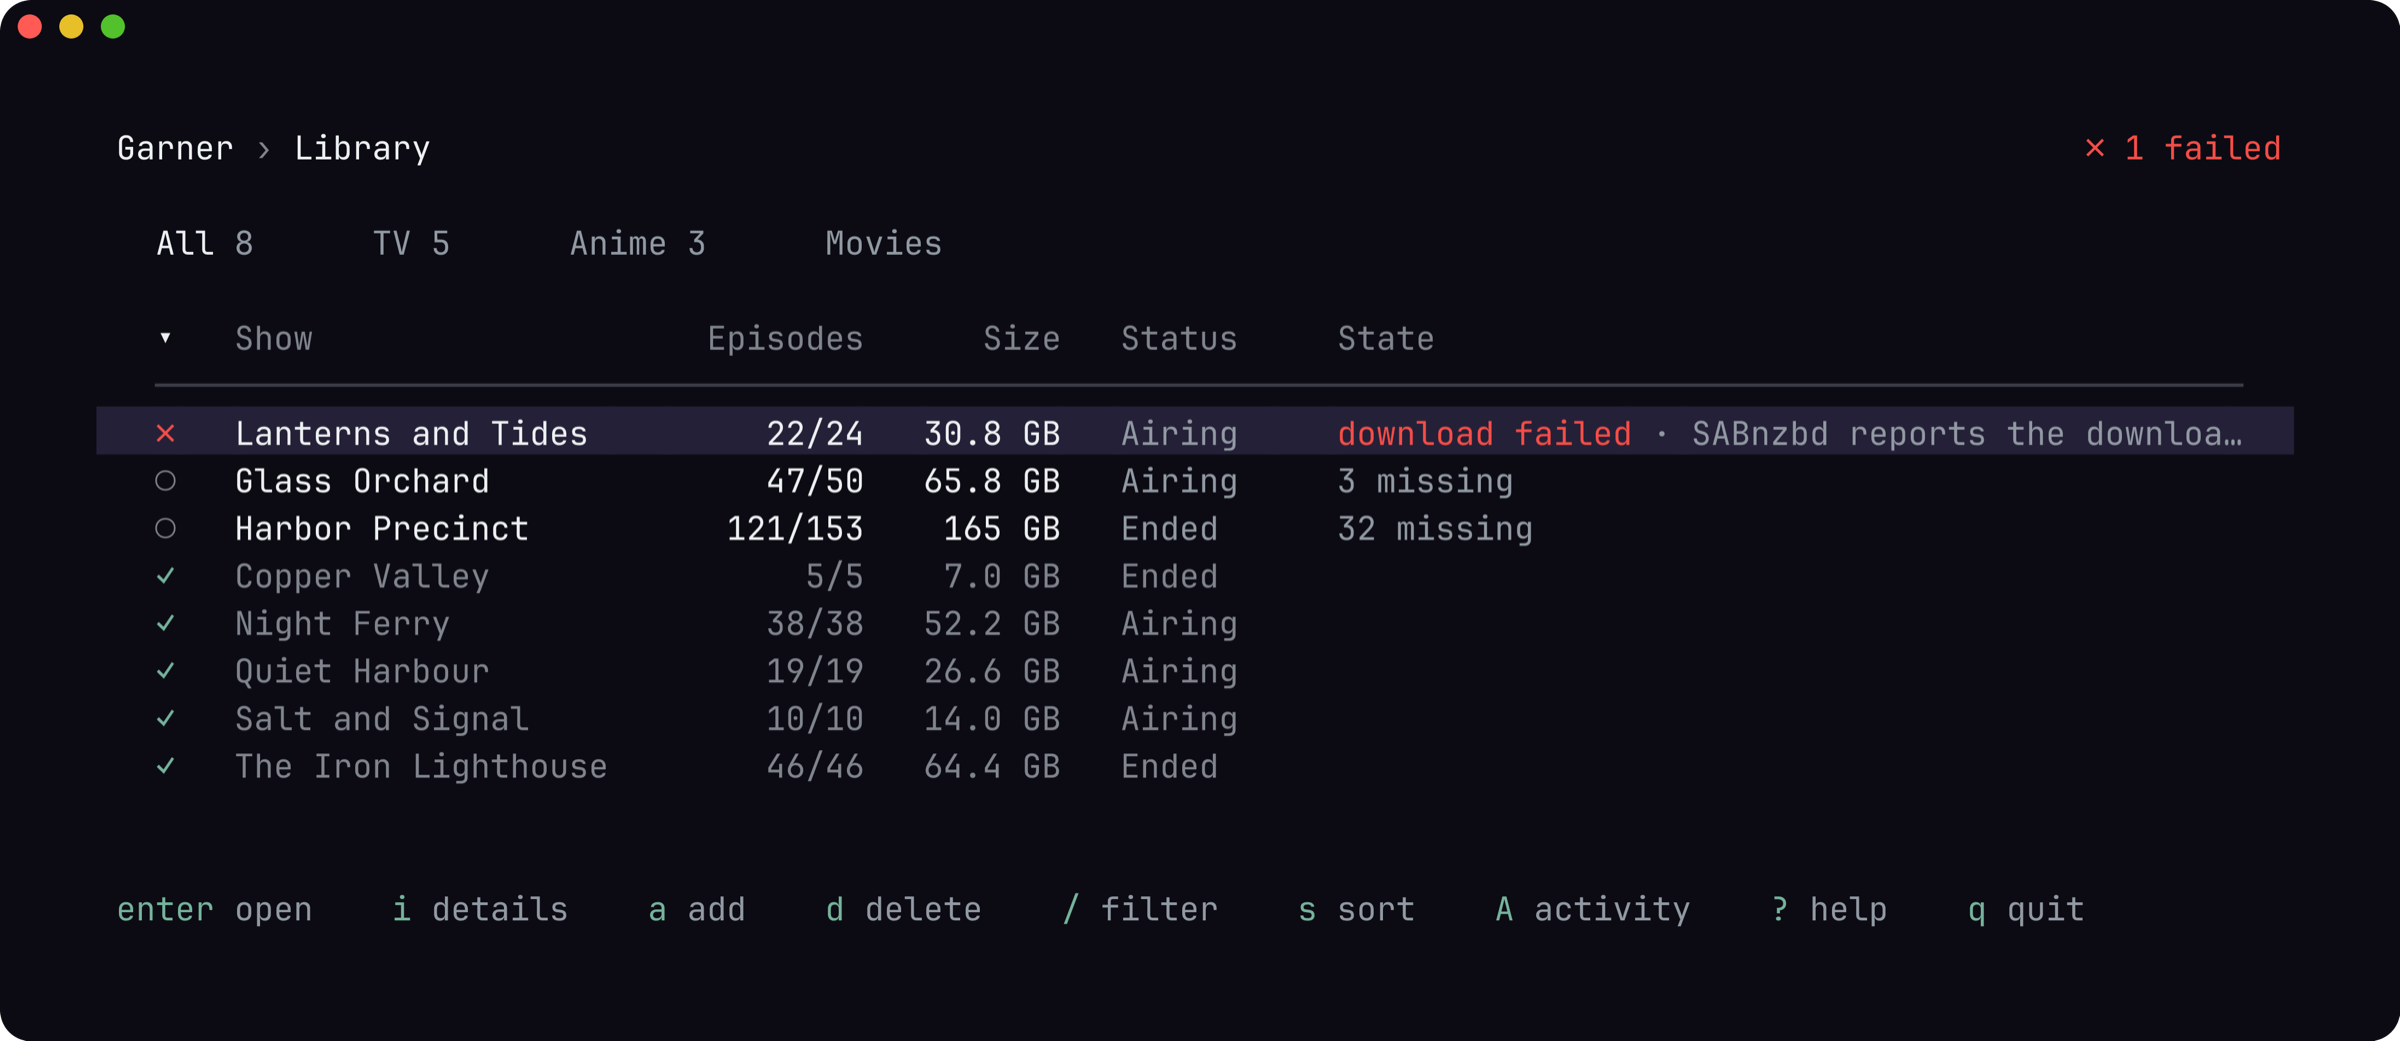
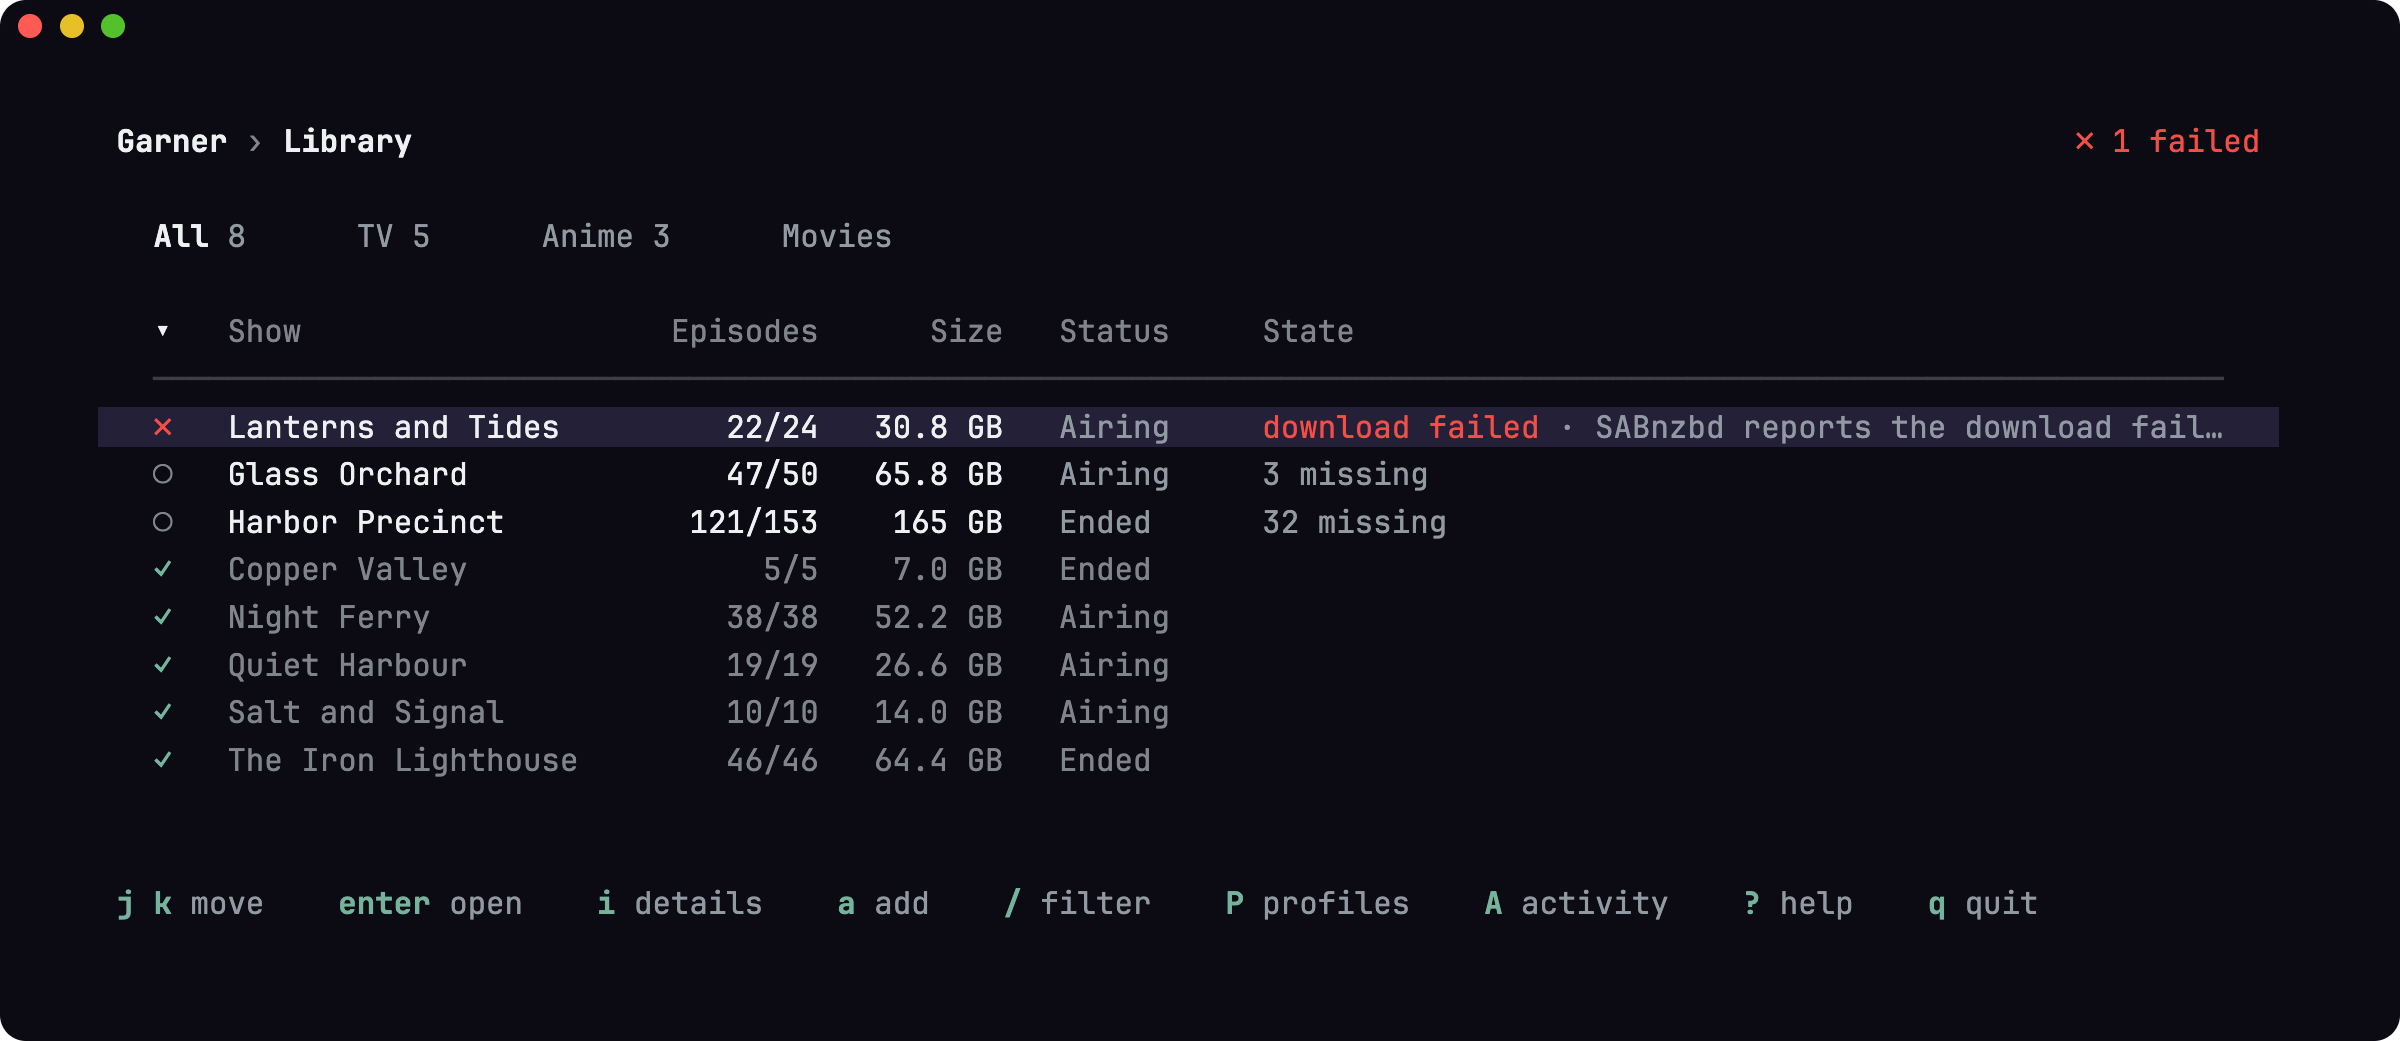
Bring the README's screenshot and requirements up to date
The screenshot showed an older library key bar, and What you need
listed Jellyfin as required, although Garner runs without it. The
screenshot now shows the current library screen, rendered from the
terminal interface with the same made-up shows, and the README says
what Jellyfin adds.

GRR-60

diff --git a/README.md b/README.md
@@ -1,12 +1,12 @@
 # Garner
 
-Garner manages TV shows and anime for a self-hosted media library. It finds releases through [Prowlarr](https://prowlarr.com), downloads them with [SABnzbd](https://sabnzbd.org), checks every file with FFprobe, moves it into the library and confirms the import through [Jellyfin](https://jellyfin.org). You run the server, `garnerd`, next to those services and use it from a terminal interface, `garner`, on any machine.
+Garner manages TV shows and anime for a self-hosted media library. It finds releases through [Prowlarr](https://prowlarr.com), downloads them with [SABnzbd](https://sabnzbd.org), checks every file with FFprobe, moves it into the library and, if you use [Jellyfin](https://jellyfin.org), confirms the import through it. You run the server, `garnerd`, next to those services and use it from a terminal interface, `garner`, on any machine.
 
 ![The library in Garner's terminal interface](docs/screenshot.png)
 
 - **Watches your shows.** The monitor searches for new episodes, or every missing one, and downloads the best release that fits the show's rules. When the show's profile wants upgrades, it replaces a file below the first preference, such as 720p, when a better release turns up.
 - **Explains every decision.** Every release in a search gets a verdict and the reasons for it: which episode it holds, which language and resolution it has and why it ranks where it does.
-- **Checks files before they reach the library.** FFprobe confirms the audio language, resolution and runtime of each file. Jellyfin then has to identify the file as the intended episode.
+- **Checks files before they reach the library.** FFprobe confirms the audio language, resolution and runtime of each file. If you use Jellyfin, it then has to identify the file as the intended episode.
 - **Handles anime numbering.** Scene numbering and absolute episode numbers come from [TheXEM](https://thexem.info), so releases of long-running anime match the right episodes.
 - **Takes over the files you already have.** When you add a show, Garner adopts its existing files instead of downloading them again.
 
@@ -15,7 +15,8 @@ Garner is young: versions start with `0.`, and a new version can change how thin
 ## What you need
 
 - A Linux server with Podman or Docker. Release images are built for x86 (`linux/amd64`).
-- Prowlarr with at least one Newznab indexer, SABnzbd with a Usenet provider, and Jellyfin with the TheTVDB plugin.
+- Prowlarr with at least one Newznab indexer and SABnzbd with a Usenet provider.
+- Jellyfin with the TheTVDB plugin, if you want it. With Jellyfin, Garner waits until Jellyfin identifies each imported file as the intended episode, and finds a show's existing files in Jellyfin's folders too. Without it, Garner imports without that confirmation and looks for existing files only in its own folders.
 - One filesystem or share that holds both SABnzbd's completed downloads and the library. Garner moves files with a rename, which works only within one filesystem.
 
 Garner gets show and episode data from TheTVDB with its own key, which the release images bring along. To use a key of your own, set `TVDB_API_KEY`.
@@ -61,7 +62,7 @@ Garner manages one file per episode: the files it imports and the files it takes
 When you add a show, Garner looks for the show's video files before the monitor starts on it. It looks in two places:
 
 - Garner's folder for the show, such as `Harbor.Precinct.Night.Shift.2013.[tvdbid-42]`
-- every folder that Jellyfin holds the show in, found by the show's TVDB ID, whatever the folder is called
+- with Jellyfin, every folder that Jellyfin holds the show in, found by the show's TVDB ID, whatever the folder is called
 
 Garner takes over a file when its name clearly names episodes that have no file yet. FFprobe reads the file's audio languages and resolution, which say which preference of the profile the file meets, as for a download. A file that meets none, such as English audio under the German profile, ranks below every preference, so an upgrade replaces it. Of two files for one episode, Garner takes the one that meets the better preference, then the larger one. The terminal interface lists the files that Garner left alone, with the reason. To look again, for example after copying files into the library by hand, press `t` on the show's details page.
 
@@ -75,7 +76,7 @@ A taken-over file belongs to Garner from then on, like a file it imported:
 - Deleting the show with **Delete files** deletes the file. **Keep files** leaves it in place, and adding the show again takes it over again.
 - The file keeps its name and folder. After a take-over, the terminal interface asks whether to rename and move the files outside Garner's folder into that folder, named the way Garner names files. **Keep as they are** is preselected.
 
-Renaming moves the subtitle files along, never overwrites a file and tells Jellyfin about the moves. It removes the folders that the moves left empty. A folder that still holds other files, such as Jellyfin's `tvshow.nfo`, stays, and Jellyfin may still list it as a show. Garner moves files without copying them, so a file on another filesystem than Garner's folder stays where it is.
+Renaming moves the subtitle files along, never overwrites a file and, if you use Jellyfin, tells it about the moves. It removes the folders that the moves left empty. A folder that still holds other files, such as Jellyfin's `tvshow.nfo`, stays, and Jellyfin may still list it as a show. Garner moves files without copying them, so a file on another filesystem than Garner's folder stays where it is.
 
 ## Responsible use
 
